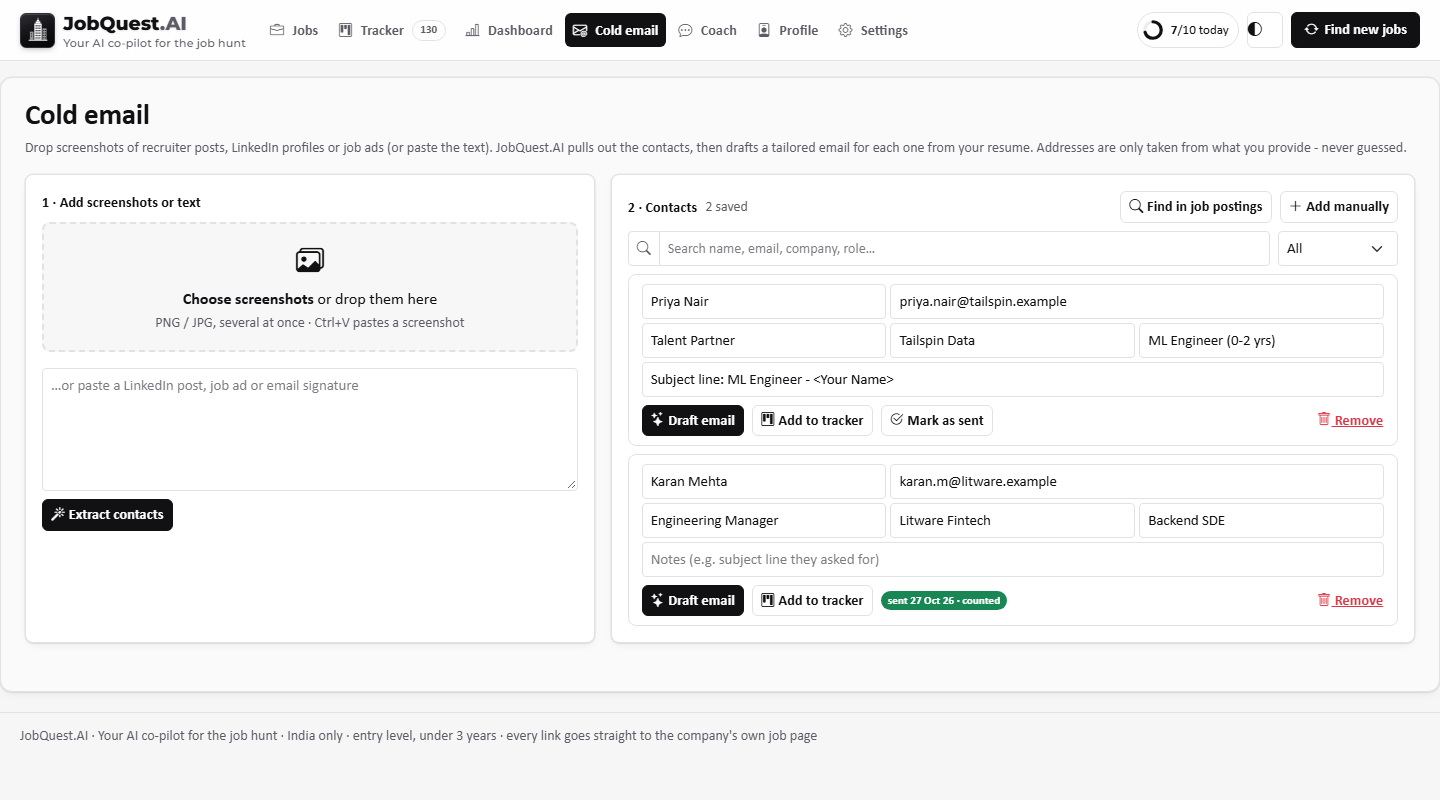
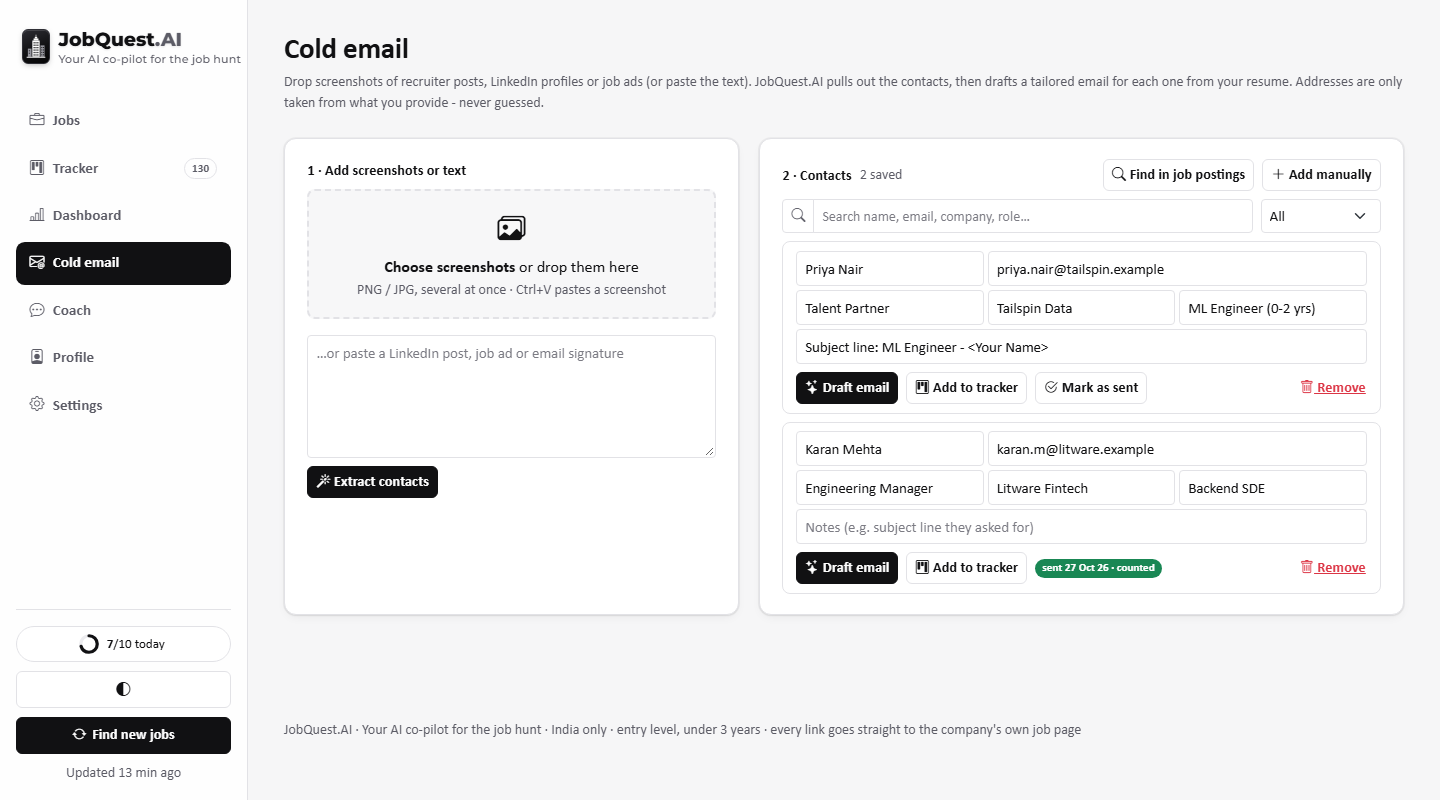
Sidebar app layout with roomier cards; refresh screenshots

diff --git a/jobhunt/static/app.css b/jobhunt/static/app.css
@@ -372,3 +372,40 @@ footer.container-xxl { padding-top: .75rem !important; padding-bottom: .75rem !i
   .target-pill span { display: none; }
 }
 @media (max-width: 991.98px) { .nav-tools { flex-wrap: wrap; } #tabs { flex-wrap: wrap; } }
+
+/* ---- app shell: left sidebar navigation (Jobright / desktop-app style) with roomy content on wide screens */
+@media (min-width: 992px) {
+  body { padding-left: 248px; }
+  .app-nav.navbar { position: fixed; top: 0; left: 0; bottom: 0; width: 248px; padding: 1.4rem 1rem 1rem; flex-direction: column;
+    align-items: stretch; flex-wrap: nowrap; border-bottom: 0; border-right: 1px solid var(--bs-border-color); box-shadow: none; z-index: 1030; }
+  .app-nav > .container-xxl { flex-direction: column; align-items: stretch; height: 100%; padding: 0; max-width: none; flex-wrap: nowrap; }
+  .app-nav .navbar-brand { margin: 0 0 1.75rem .4rem !important; }
+  .app-nav .navbar-collapse { flex-direction: column; align-items: stretch !important; flex-grow: 1; }
+  .app-nav #tabs { flex-direction: column; gap: .25rem !important; margin: 0 !important; }
+  .app-nav #tabs .nav-link { padding: .62rem .85rem; font-size: .95rem; border-radius: .55rem; }
+  .app-nav #tabs .nav-link .badge { margin-left: auto; }
+  .app-nav .nav-tools { flex-direction: column; align-items: stretch !important; flex-wrap: nowrap; margin-top: auto; gap: .55rem !important;
+    padding-top: 1rem; border-top: 1px solid var(--bs-border-color); }
+  .app-nav .nav-tools > *, .app-nav .nav-tools .btn-theme { width: 100%; justify-content: center; }
+  .app-nav .nav-tools .dropdown { order: 2; }
+  .app-nav #refresh-btn { order: 3; }
+  .app-nav #last-run { display: block !important; order: 4; text-align: center; margin: 0 !important; }
+  .app-nav .brand-sub, .app-nav .target-pill span { display: inline !important; }
+  .app-nav .brand-sub { display: block !important; }
+  .refresh-strip { position: fixed; top: 0; left: 248px; right: 0; z-index: 1040; }
+  .container-xxl { max-width: 1280px; }
+  main#app { background: transparent; border: 0; box-shadow: none; border-radius: 0; padding: 0 2.25rem; margin: 2rem auto 2.5rem; }
+  footer.container-xxl { padding: 1rem 2.25rem 2rem !important; border-top: 0 !important; }
+}
+/* roomier cards everywhere */
+.card { border-radius: .75rem; }
+.card-body { padding: 1.25rem 1.4rem; }
+.card-body.p-3 { padding: 1.25rem 1.4rem !important; }
+.card-body.p-4 { padding: 1.5rem 1.75rem !important; }
+.hero { margin: 0 0 1.5rem !important; }
+.row.g-3 { --bs-gutter-x: 1.25rem; --bs-gutter-y: 1.25rem; }
+.row.g-4 { --bs-gutter-x: 1.5rem; --bs-gutter-y: 1.5rem; }
+#app > .card, #app > .accordion, #app > .alert, .card.mb-3, .accordion.mb-3 { margin-bottom: 1.25rem !important; }
+.job-card { margin-bottom: .75rem !important; }
+.tile, .stat { padding: .8rem 1rem !important; }
+.tracker-table th, .tracker-table td { padding: .55rem .75rem; }

diff --git a/jobhunt/static/index.html b/jobhunt/static/index.html
@@ -31,7 +31,7 @@
       <div class="d-flex align-items-center gap-2 nav-tools">
         <a href="#/dashboard" id="target-pill" class="target-pill"></a>
         <span id="last-run" class="small text-body-secondary me-1"></span>
-        <div class="dropdown"><button class="btn btn-outline-secondary btn-theme" type="button" data-bs-toggle="dropdown" id="theme-btn" aria-expanded="false" aria-label="Choose a theme" title="Theme"></button>
+        <div class="dropdown dropend"><button class="btn btn-outline-secondary btn-theme" type="button" data-bs-toggle="dropdown" id="theme-btn" aria-expanded="false" aria-label="Choose a theme" title="Theme"></button>
           <ul class="dropdown-menu dropdown-menu-end" id="theme-menu"></ul></div>
         <button class="btn btn-ink" type="button" data-action="refresh" id="refresh-btn"></button>
       </div>
